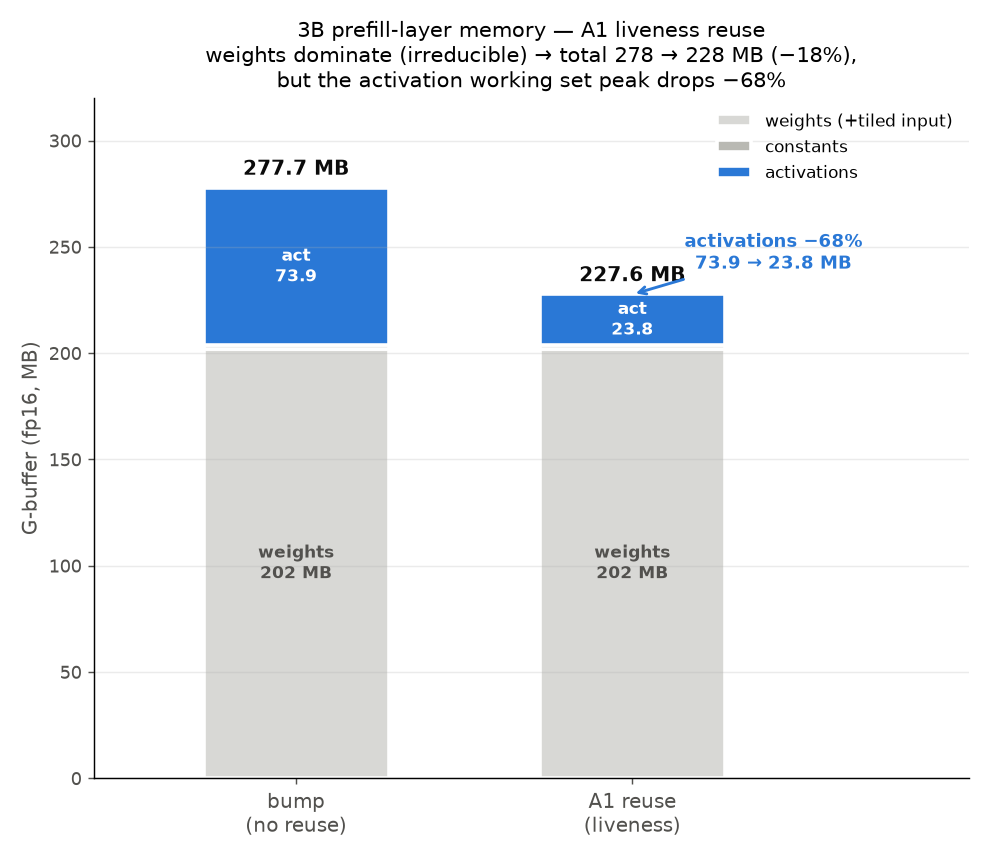
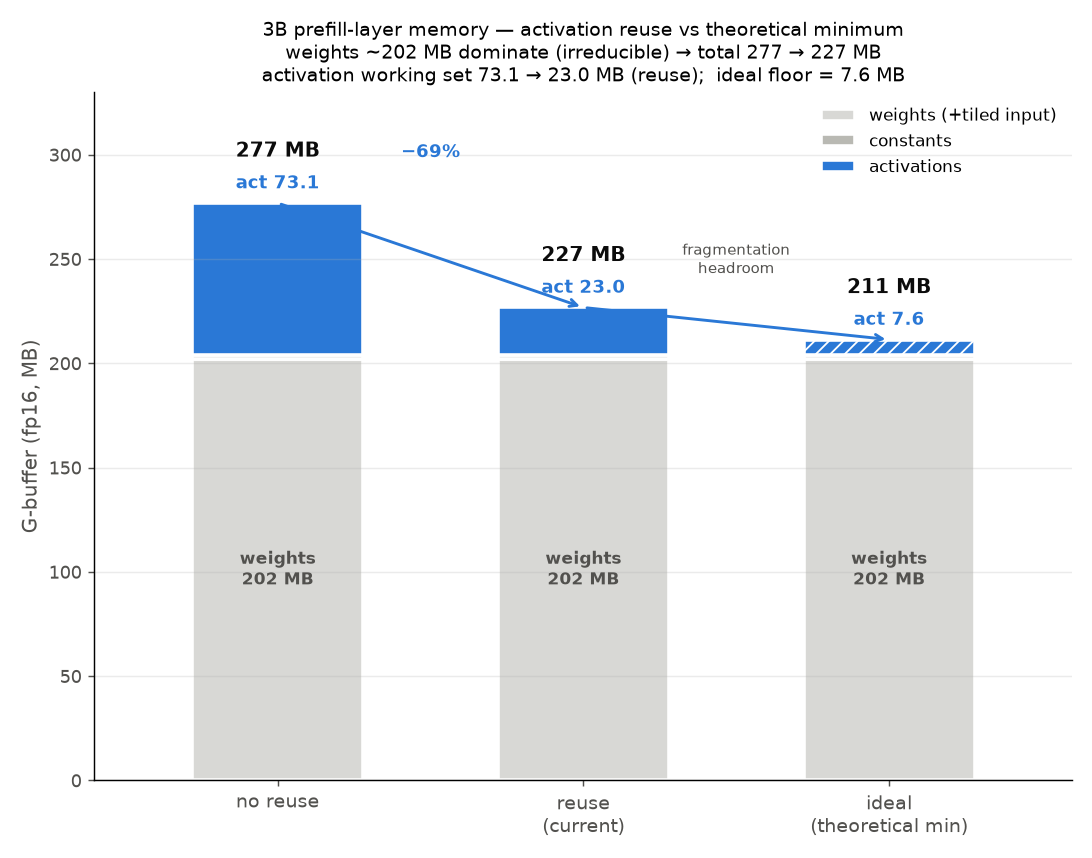
report_0719: memory graph — drop A1/A2 jargon, add theoretical-ideal bar
g_memory.png now has three bars (no reuse / reuse (current) / ideal), x-axis in
plain terms instead of "A1/A2". Added the theoretical ideal = max simultaneously-
live activation footprint (7.6 MB), the floor any allocator could reach.

Re-measured cleanly (reconciled the earlier 12.3-vs-23 gap = fragmentation):
  weights 202.1 MB (irreducible, dominate) + consts 1.6 MB
  activation:  no reuse 73.1  ->  reuse 23.0 (-69%)  ->  ideal 7.6 MB
  reuse recycles 512/570 activations (90%) into 58 physical slots (one slot
  serves up to 116 tensors); the reuse(23.0)-vs-ideal(7.6) gap is fragmentation
  the exact-size free-list leaves (constants always bump; cross-size holes;
  allocate-then-free avoids in-place).

- plot_memory.py rewritten for the 3-bar layout (ideal bar hatched = hypothetical).
- measurements_detail.json memory_elems: act_noreuse/act_reuse/act_ideal + tops.
- report §8.3 table+caption updated (add reuse-rate + ideal/fragmentation finding);
  synced rounded total refs 278->277 / 228->227.

diff --git a/report/figs/0719/plot_memory.py b/report/figs/0719/plot_memory.py
@@ -1,10 +1,14 @@
-"""G-buffer memory of the 3B prefill layer: weights (always-live) vs activations
-(A1 liveness reuse). MEASURED (memplan.plan footprints). Reads measurements_detail.json.
+"""G-buffer memory of the 3B prefill layer: weights (always-live) vs activations,
+across three scenarios — no reuse / liveness reuse (current) / theoretical ideal.
+MEASURED (memplan.plan footprints). Reads measurements_detail.json.
 
-The point: weights (the packed static params + tiled input) dominate at ~202 MB and are
-irreducible (every layer needs them resident), so the OVERALL saving is only -18%. The
-activation working set, however, is the part A1 actually attacks: its PEAK drops -68%
-(73.9 -> 23.8 MB) once liveness reuse frees each binding var's slot at its last read."""
+Point 1: weights (packed static params + tiled input) dominate at ~202 MB and are
+irreducible (every layer needs them resident), so the OVERALL saving is only modest.
+Point 2: the activation working set is what reuse attacks — 73.1 -> 23.0 MB. The
+'ideal' bar is the theoretical floor = max simultaneously-live activation footprint
+(7.6 MB, what a perfect allocator would need); the gap between reuse (23.0) and ideal
+(7.6) is fragmentation the exact-size free-list leaves (constants always bump; freed
+slots of one size don't fill another size's need)."""
 import json, os
 import matplotlib
 matplotlib.use("Agg")
@@ -14,40 +18,47 @@ HERE = os.path.dirname(os.path.abspath(__file__))
 M = json.load(open(os.path.join(HERE, "measurements_detail.json")))["memory_elems"]
 mb = lambda e: e * 2 / 1e6                       # fp16 elements -> MB
 W, C = mb(M["weights"]), mb(M["constants"])
-A_bump, A_peak = mb(M["act_bump"]), mb(M["act_peak"])
-tot_bump, tot_reuse = mb(M["top_bump"]), mb(M["top_reuse"])
+acts = [mb(M["act_noreuse"]), mb(M["act_reuse"]), mb(M["act_ideal"])]
+tots = [mb(M["top_noreuse"]), mb(M["top_reuse"]), mb(M["top_ideal"])]
 
 C_W = "#d8d8d5"    # weights: recessive neutral (irreducible)
 C_C = "#b9b9b3"    # constants
-C_A = "#2a78d6"    # activations: categorical slot 1 (the part A1 optimizes)
+C_A = "#2a78d6"    # activations: categorical slot 1 (the part reuse optimizes)
 INK, MUTED = "#0b0b0b", "#52514e"
 
-fig, ax = plt.subplots(figsize=(7.6, 6.6))
-x = [0, 1]
-labels = ["bump\n(no reuse)", "A1 reuse\n(liveness)"]
-acts = [A_bump, A_peak]
-bw = 0.55
+fig, ax = plt.subplots(figsize=(8.4, 6.6))
+x = [0, 1, 2]
+labels = ["no reuse", "reuse\n(current)", "ideal\n(theoretical min)"]
+bw = 0.56
 for i in x:
     ax.bar(i, W, bw, color=C_W, edgecolor="white", linewidth=2, label="weights (+tiled input)" if i == 0 else None)
     ax.bar(i, C, bw, bottom=W, color=C_C, edgecolor="white", linewidth=2, label="constants" if i == 0 else None)
-    ax.bar(i, acts[i], bw, bottom=W + C, color=C_A, edgecolor="white", linewidth=2, label="activations" if i == 0 else None)
+    # the ideal bar is hypothetical -> hatch it so it reads as "not what we allocate today"
+    hatch = "///" if i == 2 else None
+    ax.bar(i, acts[i], bw, bottom=W + C, color=C_A, edgecolor="white", linewidth=2, hatch=hatch,
+           label="activations" if i == 0 else None)
     ax.text(i, W / 2, f"weights\n{W:.0f} MB", ha="center", va="center", fontsize=9.5, color=MUTED, fontweight="bold")
-    ax.text(i, W + C + acts[i] / 2, f"act\n{acts[i]:.1f}", ha="center", va="center", fontsize=9.5,
-            color="white", fontweight="bold")
-    tot = W + C + acts[i]
-    ax.text(i, tot + 4, f"{tot:.1f} MB", ha="center", va="bottom", fontsize=11, color=INK, fontweight="bold")
-# activation-reduction callout
-ax.annotate(f"activations −68%\n{A_bump:.1f} → {A_peak:.1f} MB",
-            xy=(1, W + C + A_peak), xytext=(1.42, W + 45), ha="center", va="center",
-            fontsize=10, color=C_A, fontweight="bold",
-            arrowprops=dict(arrowstyle="->", color=C_A, lw=1.6))
+    ax.text(i, W + C + acts[i] + 5, f"act {acts[i]:.1f}", ha="center", va="bottom", fontsize=10,
+            color=C_A, fontweight="bold")
+    ax.text(i, tots[i] + 20, f"{tots[i]:.0f} MB", ha="center", va="bottom", fontsize=11, color=INK, fontweight="bold")
 
-ax.set_xticks(x); ax.set_xticklabels(labels, fontsize=11)
+# activation-progression callout (the story lives in the small top sliver)
+ax.annotate("", xy=(1, W + C + acts[1]), xytext=(0, W + C + acts[0]),
+            arrowprops=dict(arrowstyle="->", color=C_A, lw=1.6))
+ax.annotate("", xy=(2, W + C + acts[2]), xytext=(1, W + C + acts[1]),
+            arrowprops=dict(arrowstyle="->", color=C_A, lw=1.6))
+ax.text(0.5, W + C + acts[0] + 22, f"−{100*(1-acts[1]/acts[0]):.0f}%", ha="center", fontsize=10,
+        color=C_A, fontweight="bold")
+ax.text(1.5, W + C + acts[1] + 14, "fragmentation\nheadroom", ha="center", va="bottom", fontsize=8.5,
+        color=MUTED)
+
+ax.set_xticks(x); ax.set_xticklabels(labels, fontsize=10.5)
 ax.set_ylabel("G-buffer (fp16, MB)", fontsize=11, color=MUTED)
-ax.set_ylim(0, 320); ax.set_xlim(-0.6, 2.0)
-ax.set_title("3B prefill-layer memory — A1 liveness reuse\n"
-             f"weights dominate (irreducible) → total {tot_bump:.0f} → {tot_reuse:.0f} MB (−18%),\n"
-             f"but the activation working set peak drops −68%", fontsize=11.5)
+ax.set_ylim(0, 330); ax.set_xlim(-0.6, 2.6)
+ax.set_title("3B prefill-layer memory — activation reuse vs theoretical minimum\n"
+             f"weights ~{W:.0f} MB dominate (irreducible) → total {tots[0]:.0f} → {tots[1]:.0f} MB\n"
+             f"activation working set {acts[0]:.1f} → {acts[1]:.1f} MB (reuse);  "
+             f"ideal floor = {acts[2]:.1f} MB", fontsize=10.5)
 ax.legend(loc="upper right", fontsize=9.5, frameon=False)
 ax.grid(axis="y", alpha=0.25)
 ax.spines["top"].set_visible(False); ax.spines["right"].set_visible(False)

diff --git a/report/report_0719.md b/report/report_0719.md
@@ -56,7 +56,7 @@ RMSNorm/residual(5d-1)·attention(5d-2)까지 확장하면 reduce의 FP16 재정
 | **A4** | tile-blocked 레이아웃 전파 | ✅ (5c→5d-1→5d-2) | 3B layer **−52.7%, gather 0 / scatter 0** (5c byte-exact, 5d ~0.1% tol) |
 | **A3** | import legalization을 manual과 통일 | ✅ | 향후 실제 HF 모델도 동일 최적화 경로 |
 | **A2** | 컴파일 속도 | ✅ | **106.3s → 8.6s (12.4×)**, byte-exact |
-| **A1** | liveness 기반 메모리 재사용 | ✅ (5d-2 후 완료) | 3B mp.top **278MB → 228MB (−18%)**, 명령 수 불변, byte-exact(§8) |
+| **A1** | liveness 기반 메모리 재사용 | ✅ (5d-2 후 완료) | 3B mp.top **277MB → 227MB (−18%)**, 명령 수 불변, byte-exact(§8) |
 | **A5** | decode(M=1) gather/scatter 제거 | ✅ (07-21) | 3B decode 스텝 **981,664 → 501,824 (−48.9%)**, scatter 0 / gather −87%, byte-exact(§9) |
 
 > **원래 계획 순서는 A4 → A1 → A3 → A2** 였다. A1을 프로토타입해 3B로 측정하니 **net-negative**
@@ -425,7 +425,7 @@ for (io,jo) in grid(Mt,Nt):
   (`driver`가 `reuse_act=not reuse`). tiled prefill은 gather=0이라 캐시 미사용 → **비용 0**; row gather만
   재-gather. liveness 자체는 캐시 off 시 30개 config byte-exact로 정확성 입증됨. 회귀 테스트에 **decode
   커널 reuse 검증 추가**(이전엔 prefill만 돌려 이 버그를 놓쳤음).
-- **실측(3B prefill layer): mp.top 278MB → 228MB (−18%), 명령 수 완전 불변(+0)**(tiled prefill=gather 없음),
+- **실측(3B prefill layer): mp.top 277MB → 227MB (−18%), 명령 수 완전 불변(+0)**(tiled prefill=gather 없음),
   byte-exact(prefill+decode 모두). gate GREEN. 회귀 `test_layout.test_reuse_memory`.
 
 **8.3 메모리 분해 — weight vs peak activation (이번이 첫 메모리 최적화라 별도 실측)**
@@ -436,16 +436,29 @@ G-buffer를 **가중치·상수·활성화**로 쪼개 실측했다(`memplan.pla
 |---|---:|---|
 | **weights (+ tiled 입력 x)** | **202.1 MB (73%)** | 레이어 상주 불가피 — **재사용 불가** |
 | constants | 1.6 MB | 베이크된 상수 |
-| **activations — bump(재사용 X)** | **73.9 MB** | 모든 binding var를 free 없이 누적한 총량 |
-| **activations — A1 peak(재사용 O)** | **23.8 MB** | 동시 live 활성화의 **peak working set** |
+| **activations — no reuse** | **73.1 MB** | 모든 binding var를 free 없이 누적한 총량 |
+| **activations — reuse(현재)** | **23.0 MB** | liveness 재사용으로 예약된 활성화 영역 |
+| **activations — ideal(이론 하한)** | **7.6 MB** | 동시에 live인 활성화의 최대 footprint(완벽한 allocator 하한) |
 
-![3B prefill layer 메모리: 가중치(회색)가 지배(202MB, 상주 불가피)라 total은 278→228MB(−18%)에 그치지만,
-A1이 실제로 공략하는 **활성화 working set peak는 73.9→23.8MB(−68%)**.](figs/0719/g_memory.png)
+![3B prefill layer 메모리: 가중치(회색)가 지배(202MB, 상주 불가피)라 total은 277→227MB에 그치지만,
+활성화 working set은 no reuse 73.1 → reuse 23.0MB(−69%). ideal 바(빗금)는 동시 live 최대치 7.6MB로,
+reuse(23.0)와의 차이는 exact-size free-list가 남기는 fragmentation.](figs/0719/g_memory.png)
 
-→ **핵심(이 실험의 결론)**: A1의 진짜 효과는 **활성화 peak −68%**(73.9→23.8MB)인데, **전체로는 가중치가
+**재사용률 실측**: 위 활성화 570개(O-proj 융합으로 46개 접힘) 중 **512개(90%)가 기존 슬롯을 재사용**하고
+**58개만 새 슬롯(bump)**. 한 슬롯을 최대 116개 텐서가 돌려쓴다(특히 attention 중간값 `[S,S]` 397개가
+슬롯 45개로). exact-size 매칭이 잘 먹히는 건 활성화 크기가 몇 종(`[S,D]/[S,F]/[S,HD]/[S,S]/[S,1]`)뿐이기 때문.
+
+**ideal과의 gap(정직한 한계)**: 현재 reuse가 예약하는 활성화 영역은 **23.0 MB**인데, 실제 동시-live 최대는
+**7.6 MB**뿐이다(≈3×). 차이는 **fragmentation** — ① 상수는 항상 bump(free-list 미확인), ② exact-size라 한
+크기의 빈 슬롯이 다른 크기 요청을 못 메움, ③ "배정 후 반납"(in-place 회피). 이 gap은 안전(§in-place 회피)과
+단순성을 위해 감수한 것이고, 전체는 어차피 가중치(73%)가 지배해 총 메모리 상한이 −18%라 ROI가 낮다.
+
+→ **핵심(이 실험의 결론)**: A1의 진짜 효과는 **활성화 −69%**(73.1→23.0MB)인데, **전체로는 가중치가
 73%를 차지해 −18%로 희석**된다. 즉 이 NPU에서 **레이어 메모리는 근본적으로 가중치가 지배**하고(모든
 레이어가 가중치를 상주시켜야 함), 활성화 재사용은 "동시에 살아있는 활성화 집합(peak)"을 줄이는 것이라
-비율 이득은 크지만 절대 총량 이득은 가중치에 가려진다. (가중치까지 줄이려면 양자화/오프로딩 등 별도 축이 필요.)
+비율 이득은 크지만 절대 총량 이득은 가중치에 가려진다. 게다가 완벽한 allocator의 이론 하한(7.6MB)까지는
+아직 fragmentation만큼 여유가 있으나, 그 여유(≈15MB)조차 가중치 202MB에 가려 총량엔 거의 무의미하다.
+(가중치까지 줄이려면 양자화/오프로딩 등 별도 축이 필요.)
 
 ---
 
@@ -611,7 +624,7 @@ HW가 있어야 없어지는 유일한 잔여 항목이다(§11 남은 과제와
 3. **A2 컴파일 속도** — canonical GEMM을 파이썬으로 직접 emit해 **106.3s → 8.6s (12.4×)**,
    명령 수 불변.
 4. **A1 메모리 재사용** — liveness 기반 활성화 offset 재사용. A4가 gather를 0으로 만들어
-   gather_cache가 사라진 덕에 **명령 수 불변(+0)**, byte-exact. **3B mp.top 278MB → 228MB (−18%)**.
+   gather_cache가 사라진 덕에 **명령 수 불변(+0)**, byte-exact. **3B mp.top 277MB → 227MB (−18%)**.
 5. **A5 decode(M=1) gather/scatter 제거** — prefill(A4)과 **같은 코드 경로**지만 M=1이라 tile-blocked이
    아닌 row-major로 도는 decode에서, "M=1이면 0번 행만 산다"는 관찰로 **활성화 gather(A 연속 읽기)와
    출력 scatter(tile-blocked C + 0번 행 추출)를 제거**. 3B decode 스텝 **981,664 → 501,824(−48.9%),
